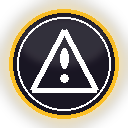
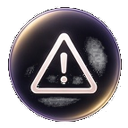
Replace sticker pack with soft Hakumo glass orbs
Ship curated pearlescent lavender/gold orb emojis (warn/mute/ban/clear/unban/appeal/helper/mod/heart) and prefer those assets over procedural neon circles so regenerating the pack does not overwrite the art.

diff --git a/services/menu_banners.py b/services/menu_banners.py
@@ -65,17 +65,17 @@ _CUSTOM_NAMES = {
     'staff': ('staff_hakumo_banner.png', 'staff_banner_custom.png'),
 }
 
-# Стикеры действий → акцент + тип иконки
+# Стикеры действий → мягкий акцент + тип иконки (пастель Hakumo)
 STICKER_SPECS = {
-    'warn':       {'accent': (251, 191, 36),  'icon': 'warn'},
-    'mute':       {'accent': (96, 165, 250),  'icon': 'mute'},
-    'ban':        {'accent': (248, 113, 113), 'icon': 'ban'},
-    'clear':      {'accent': (52, 211, 153),  'icon': 'clear'},
-    'unban':      {'accent': (74, 222, 128),  'icon': 'unban'},
-    'appeal':     {'accent': (192, 132, 252), 'icon': 'appeal'},
-    'helper':     {'accent': (196, 160, 255), 'icon': 'helper'},
-    'moderator':  {'accent': (129, 140, 248), 'icon': 'mod'},
-    'heart':      {'accent': (255, 230, 245), 'icon': 'heart'},
+    'warn':       {'accent': (255, 200, 110), 'icon': 'warn'},
+    'mute':       {'accent': (140, 190, 255), 'icon': 'mute'},
+    'ban':        {'accent': (255, 130, 145), 'icon': 'ban'},
+    'clear':      {'accent': (120, 230, 200), 'icon': 'clear'},
+    'unban':      {'accent': (140, 235, 170), 'icon': 'unban'},
+    'appeal':     {'accent': (210, 165, 255), 'icon': 'appeal'},
+    'helper':     {'accent': (220, 185, 255), 'icon': 'helper'},
+    'moderator':  {'accent': (165, 175, 255), 'icon': 'mod'},
+    'heart':      {'accent': (255, 210, 235), 'icon': 'heart'},
 }
 
 
@@ -341,157 +341,223 @@ def select_emoji():
 # ─── иконки стикеров ───────────────────────────────────────────
 
 def _icon_layer(size: int, accent, kind: str) -> Image.Image:
-    """Белая пиктограмма по центру круга."""
+    """Мягкая светящаяся пиктограмма (рисуем крупно → blur glow)."""
     layer = Image.new('RGBA', (size, size), (0, 0, 0, 0))
     d = ImageDraw.Draw(layer)
-    cx = cy = size / 2
     ink = (255, 255, 255, 255)
-    soft = (*accent, 220)
-    s = size / 128.0  # scale from 128 base
+    s = size / 128.0
+    stroke = max(3, int(7 * s))
 
-    def L(pts, w=5):
+    def L(pts, w=None):
+        ww = stroke if w is None else max(2, int(w * s))
         d.line([(p[0] * s, p[1] * s) for p in pts],
-               fill=ink, width=max(2, int(w * s)), joint='curve')
+               fill=ink, width=ww, joint='curve')
 
-    def E(box, fill=None, outline=ink, width=4):
+    def E(box, fill=None, outline=ink, width=None):
         b = [v * s for v in box]
-        d.ellipse(b, fill=fill, outline=outline,
-                  width=max(2, int(width * s)))
+        ww = stroke if width is None else max(2, int(width * s))
+        d.ellipse(b, fill=fill, outline=outline if fill is None else None,
+                  width=ww if fill is None else 0)
 
-    def P(pts, fill=ink, outline=None, width=2):
-        d.polygon([(p[0] * s, p[1] * s) for p in pts],
-                  fill=fill, outline=outline)
+    def P(pts, fill=ink):
+        d.polygon([(p[0] * s, p[1] * s) for p in pts], fill=fill)
 
-    def R(box, fill=None, outline=ink, width=3, radius=6):
+    def R(box, fill=None, outline=ink, width=None, radius=10):
         b = [v * s for v in box]
-        d.rounded_rectangle(b, radius=int(radius * s), fill=fill,
-                            outline=outline, width=max(1, int(width * s)))
+        ww = stroke if width is None else max(2, int(width * s))
+        d.rounded_rectangle(
+            b, radius=int(radius * s),
+            fill=fill, outline=None if fill else outline,
+            width=0 if fill else ww)
 
     if kind == 'warn':
-        L([(64, 30), (96, 90)], 5)
-        L([(96, 90), (32, 90)], 5)
-        L([(32, 90), (64, 30)], 5)
-        E((60, 48, 68, 68), fill=ink, outline=None, width=1)
-        E((60, 74, 68, 82), fill=ink, outline=None, width=1)
+        L([(64, 34), (95, 90)], 8)
+        L([(95, 90), (33, 90)], 8)
+        L([(33, 90), (64, 34)], 8)
+        for cx, cy in ((64, 36), (93, 88), (35, 88)):
+            E((cx - 4, cy - 4, cx + 4, cy + 4), fill=ink, outline=None, width=1)
+        E((60, 52, 68, 70), fill=ink, outline=None, width=1)
+        E((60, 76, 68, 84), fill=ink, outline=None, width=1)
     elif kind == 'mute':
-        # speaker body
-        P([(34, 50), (50, 50), (66, 36), (66, 92), (50, 78), (34, 78)],
-          fill=ink)
-        # slash
-        L([(90, 38), (40, 94)], 6)
+        P([(36, 52), (52, 52), (68, 38), (68, 90), (52, 76), (36, 76)])
+        L([(86, 44), (44, 92)], 8)
     elif kind == 'ban':
-        E((34, 34, 94, 94), fill=None, outline=ink, width=6)
-        L([(46, 46), (82, 82)], 6)
+        E((36, 36, 92, 92), fill=None, outline=ink, width=8)
+        L([(48, 48), (80, 80)], 8)
     elif kind == 'clear':
-        # broom handle
-        L([(78, 30), (48, 78)], 5)
-        # bristles
-        P([(40, 72), (58, 86), (52, 96), (30, 84)], fill=ink)
-        # sparkles
-        for sx, sy in ((84, 44), (92, 58), (74, 62)):
-            L([(sx - 4, sy), (sx + 4, sy)], 2)
-            L([(sx, sy - 4), (sx, sy + 4)], 2)
+        L([(80, 32), (46, 82)], 7)
+        P([(38, 74), (58, 90), (50, 98), (28, 84)])
+        for sx, sy, r in ((86, 42, 5), (94, 56, 4), (76, 60, 3)):
+            L([(sx - r, sy), (sx + r, sy)], 2)
+            L([(sx, sy - r), (sx, sy + r)], 2)
     elif kind == 'unban':
-        # unlocked padlock
-        E((44, 36, 84, 70), fill=None, outline=ink, width=5)
-        L([(84, 52), (84, 42)], 5)
-        R((40, 58, 88, 98), fill=ink, outline=None, radius=8)
-        E((58, 70, 70, 82), fill=(18, 14, 28, 255), outline=None, width=1)
+        E((46, 34, 82, 66), fill=None, outline=ink, width=6)
+        L([(82, 50), (82, 40)], 6)
+        R((40, 56, 88, 98), fill=ink, outline=None, radius=10)
+        E((58, 70, 70, 82), fill=(20, 14, 30, 255), outline=None, width=1)
     elif kind == 'appeal':
-        R((40, 30, 88, 98), fill=None, outline=ink, width=4, radius=6)
-        L([(52, 48), (76, 48)], 3)
-        L([(52, 60), (76, 60)], 3)
-        L([(52, 72), (68, 72)], 3)
-        L([(72, 30), (88, 46), (72, 46), (72, 30)], 3)
+        R((42, 30, 86, 98), fill=None, outline=ink, width=6, radius=10)
+        L([(54, 50), (74, 50)], 4)
+        L([(54, 62), (74, 62)], 4)
+        L([(54, 74), (66, 74)], 4)
     elif kind == 'helper':
         pts = []
         for i in range(10):
             ang = math.pi / 2 + i * math.pi / 5
-            r = 34 if i % 2 == 0 else 15
+            r = 32 if i % 2 == 0 else 14
             pts.append((64 + r * math.cos(ang), 64 - r * math.sin(ang)))
-        P(pts, fill=ink)
+        P(pts)
     elif kind == 'mod':
-        L([(64, 30), (94, 43), (94, 70), (64, 96), (34, 70), (34, 43), (64, 30)], 5)
-        E((56, 54, 72, 70), fill=soft, outline=None, width=1)
+        body = [(64, 30), (94, 44), (94, 72), (64, 100), (34, 72), (34, 44)]
+        P(body)
+        E((56, 54, 72, 70), fill=(*accent, 255), outline=None, width=1)
     elif kind == 'heart':
         pts = []
-        for t in range(0, 360, 4):
+        for t in range(0, 360, 3):
             rad = math.radians(t)
             x = 16 * math.sin(rad) ** 3
             y = (13 * math.cos(rad) - 5 * math.cos(2 * rad)
                  - 2 * math.cos(3 * rad) - math.cos(4 * rad))
-            pts.append((64 + x * 2.1, 58 - y * 2.1))
-        P(pts, fill=ink)
+            pts.append((64 + x * 2.15, 58 - y * 2.15))
+        P(pts)
     else:
-        f = _font(True, int(36 * s))
+        f = _font(True, int(40 * s))
         label = kind.upper()[:3]
         bbox = d.textbbox((0, 0), label, font=f)
         tw, th = bbox[2] - bbox[0], bbox[3] - bbox[1]
         d.text(((size - tw) / 2, (size - th) / 2 - 2), label, font=f, fill=ink)
 
-    return layer
+    bloom = layer.filter(ImageFilter.GaussianBlur(max(2, size // 40)))
+    bloom = ImageEnhance.Brightness(bloom).enhance(1.6)
+    out = Image.new('RGBA', (size, size), (0, 0, 0, 0))
+    out = Image.alpha_composite(out, bloom)
+    out = Image.alpha_composite(out, layer)
+    return out
 
 
-def render_sticker(key: str, size: int = 128) -> Image.Image:
-    """Стеклянный круглый стикер-иконка для загрузки как эмодзи сервера."""
-    spec = STICKER_SPECS.get(key, {'accent': (168, 85, 247), 'icon': key})
+def _radial_disc(size: int, inset: int, inner, outer) -> Image.Image:
+    """Радиальный градиент-диск (стекло)."""
+    disc = Image.new('RGBA', (size, size), (0, 0, 0, 0))
+    cx = cy = (size - 1) / 2.0
+    r_max = max(1.0, (size - 2 * inset) / 2.0)
+    px = disc.load()
+    ir, ig, ib, ia = inner
+    or_, og, ob, oa = outer
+    for y in range(inset, size - inset):
+        for x in range(inset, size - inset):
+            dx, dy = x - cx, y - cy
+            dist = math.sqrt(dx * dx + dy * dy) / r_max
+            if dist > 1.0:
+                continue
+            bias = max(0.0, 1.0 - ((y - inset) / max(1, size - 2 * inset))) * 0.22
+            t = min(1.0, dist)
+            t = t * t * (3 - 2 * t)
+            r = int(ir + (or_ - ir) * t + 40 * bias)
+            g = int(ig + (og - ig) * t + 35 * bias)
+            b = int(ib + (ob - ib) * t + 45 * bias)
+            a = int(ia + (oa - ia) * t)
+            px[x, y] = (min(255, r), min(255, g), min(255, b), min(255, a))
+    return disc
+
+
+def _load_curated_sticker(key: str, size: int) -> Optional[Image.Image]:
+    """Готовый арт из assets/stickers/{key}.png (если есть)."""
+    path = os.path.join(STICKERS, f'{key}.png')
+    if not os.path.isfile(path):
+        return None
+    try:
+        im = Image.open(path).convert('RGBA')
+        if im.size != (size, size):
+            im = im.resize((size, size), Image.Resampling.LANCZOS)
+        return im
+    except Exception:
+        return None
+
+
+def render_sticker(key: str, size: int = 128, *, procedural: bool = False) -> Image.Image:
+    """Стикер-эмодзи: курируемый арт из assets, иначе procedural орб."""
+    if not procedural:
+        curated = _load_curated_sticker(key, size)
+        if curated is not None:
+            return curated
+
+    spec = STICKER_SPECS.get(key, {'accent': (196, 150, 255), 'icon': key})
     accent = spec['accent']
     icon = spec['icon']
 
-    img = Image.new('RGBA', (size, size), (0, 0, 0, 0))
-    pad = 3
+    scale = 4 if size >= 64 else 2
+    S = size * scale
+    img = Image.new('RGBA', (S, S), (0, 0, 0, 0))
+    pad = int(6 * scale * (size / 128.0))
+    inset = pad + int(4 * scale)
 
-    # outer soft glow
-    glow = Image.new('RGBA', (size, size), (0, 0, 0, 0))
-    gd = ImageDraw.Draw(glow)
-    gd.ellipse((pad, pad, size - pad - 1, size - pad - 1), fill=(*accent, 100))
-    glow = glow.filter(ImageFilter.GaussianBlur(max(4, size // 18)))
-    img = Image.alpha_composite(img, glow)
+    aura = Image.new('RGBA', (S, S), (0, 0, 0, 0))
+    ad = ImageDraw.Draw(aura)
+    ad.ellipse((pad // 2, pad // 2, S - pad // 2 - 1, S - pad // 2 - 1),
+               fill=(*accent, 95))
+    aura = aura.filter(ImageFilter.GaussianBlur(max(6, S // 14)))
+    img = Image.alpha_composite(img, aura)
 
-    d = ImageDraw.Draw(img)
-    # glass disc
-    inset = pad + max(2, size // 20)
-    rim_w = max(2, size // 28)
-    d.ellipse((inset, inset, size - inset - 1, size - inset - 1),
-              fill=(16, 12, 26, 245))
-    # accent rim
-    d.ellipse((inset, inset, size - inset - 1, size - inset - 1),
-              outline=(*accent, 255), width=rim_w)
-    # inner highlight ring (only if enough room)
-    hi = inset + max(4, size // 16)
-    if size - 2 * hi > 4:
-        d.ellipse((hi, hi, size - hi - 1, size - hi - 1),
-                  outline=(255, 255, 255, 35),
-                  width=max(1, size // 64))
+    glass = _radial_disc(
+        S, inset,
+        inner=(42, 32, 64, 235),
+        outer=(12, 8, 22, 252),
+    )
+    tint = Image.new('RGBA', (S, S), (0, 0, 0, 0))
+    td = ImageDraw.Draw(tint)
+    td.ellipse((inset, inset, S - inset - 1, S - inset - 1),
+               fill=(*accent, 42))
+    glass = Image.alpha_composite(glass, tint)
+    img = Image.alpha_composite(img, glass)
 
-    # top gloss
-    if size >= 48:
-        gloss = Image.new('RGBA', (size, size), (0, 0, 0, 0))
-        gld = ImageDraw.Draw(gloss)
-        gld.ellipse((inset + 8, inset + 6, size - inset - 10, size // 2 + 4),
-                    fill=(255, 255, 255, 28))
-        gloss = gloss.filter(ImageFilter.GaussianBlur(4))
-        mask = Image.new('L', (size, size), 0)
-        ImageDraw.Draw(mask).ellipse(
-            (inset, inset, size - inset - 1, size - inset - 1), fill=255)
-        gloss.putalpha(Image.composite(
-            gloss.split()[-1], Image.new('L', (size, size), 0), mask))
-        img = Image.alpha_composite(img, gloss)
+    rim = Image.new('RGBA', (S, S), (0, 0, 0, 0))
+    rd = ImageDraw.Draw(rim)
+    rim_w = max(2 * scale, int(3.2 * scale))
+    rd.ellipse((inset, inset, S - inset - 1, S - inset - 1),
+               outline=(*accent, 220), width=rim_w)
+    hi = inset + int(5 * scale)
+    if S - 2 * hi > 8 * scale:
+        rd.ellipse((hi, hi, S - hi - 1, S - hi - 1),
+                   outline=(255, 255, 255, 50), width=max(1, scale))
+    rim_soft = rim.filter(ImageFilter.GaussianBlur(max(1, scale // 2)))
+    img = Image.alpha_composite(img, rim_soft)
+    img = Image.alpha_composite(img, rim)
 
-    # icon
-    icon_img = _icon_layer(size, accent, icon)
+    gloss = Image.new('RGBA', (S, S), (0, 0, 0, 0))
+    gd = ImageDraw.Draw(gloss)
+    gx0, gy0 = inset + int(10 * scale), inset + int(6 * scale)
+    gx1, gy1 = S - inset - int(10 * scale), S // 2 + int(2 * scale)
+    gd.ellipse((gx0, gy0, gx1, gy1), fill=(255, 255, 255, 48))
+    bx = inset + int(22 * scale)
+    by = inset + int(18 * scale)
+    br = int(10 * scale)
+    gd.ellipse((bx, by, bx + br, by + br // 2), fill=(255, 255, 255, 80))
+    gloss = gloss.filter(ImageFilter.GaussianBlur(max(3, 2 * scale)))
+    mask = Image.new('L', (S, S), 0)
+    ImageDraw.Draw(mask).ellipse(
+        (inset, inset, S - inset - 1, S - inset - 1), fill=255)
+    ga = gloss.split()[-1]
+    gloss.putalpha(Image.composite(ga, Image.new('L', (S, S), 0), mask))
+    img = Image.alpha_composite(img, gloss)
+
+    icon_img = _icon_layer(S, accent, icon)
     img = Image.alpha_composite(img, icon_img)
+
+    if scale > 1:
+        img = img.resize((size, size), Image.Resampling.LANCZOS)
     return img
 
 
-def ensure_sticker_pack(out_dir: str = None) -> list:
-    """Записать assets/stickers/*.png — вернуть пути."""
+def ensure_sticker_pack(out_dir: str = None, *, force: bool = False) -> list:
+    """Записать stickers/*.png. Курируемый арт в assets/ не затирается без force."""
     out_dir = out_dir or STICKERS
     os.makedirs(out_dir, exist_ok=True)
     paths = []
     for key in STICKER_SPECS:
         path = os.path.join(out_dir, f'{key}.png')
-        render_sticker(key).save(path, format='PNG')
+        curated = out_dir == STICKERS and os.path.isfile(path) and not force
+        if not curated:
+            render_sticker(key, procedural=True).save(path, format='PNG')
         paths.append(path)
     return paths
 
@@ -511,25 +577,25 @@ def save_default_banners(out_dir: str = None) -> dict:
 def render_stickers_preview(out_path: str = None) -> str:
     """Коллаж стикеров для превью."""
     keys = [k for k in STICKER_SPECS if k != 'heart'] + ['heart']
-    cell, pad, top = 140, 24, 56
+    cell, pad, top = 148, 28, 58
     cols = len(keys)
     w = cols * cell + pad * 2
-    h = cell + pad * 2 + top + 28
-    canvas = Image.new('RGBA', (w, h), (18, 16, 24, 255))
+    h = cell + pad * 2 + top + 30
+    canvas = Image.new('RGBA', (w, h), (14, 12, 20, 255))
     d = ImageDraw.Draw(canvas)
-    f = _font(False, 16)
+    f = _font(False, 17)
     f_sm = _font(False, 14)
     title = 'Стикеры для эмодзи сервера (залить в Discord)'
-    d.text((pad, 18), title, font=f, fill=(230, 225, 240, 255))
+    d.text((pad, 18), title, font=f, fill=(235, 230, 245, 255))
     for i, key in enumerate(keys):
-        st = render_sticker(key, 112)
-        x = pad + i * cell + (cell - 112) // 2
+        st = render_sticker(key, 120)
+        x = pad + i * cell + (cell - 120) // 2
         y = top
         canvas.alpha_composite(st, (x, y))
         bbox = d.textbbox((0, 0), key, font=f_sm)
         tw = bbox[2] - bbox[0]
-        d.text((x + (112 - tw) / 2, y + 118), key, font=f_sm,
-               fill=(180, 175, 195, 220))
+        d.text((x + (120 - tw) / 2, y + 126), key, font=f_sm,
+               fill=(175, 170, 190, 220))
     out_path = out_path or os.path.join(
         '/opt/cursor/artifacts', 'stickers-pack-preview.png')
     os.makedirs(os.path.dirname(out_path), exist_ok=True)
